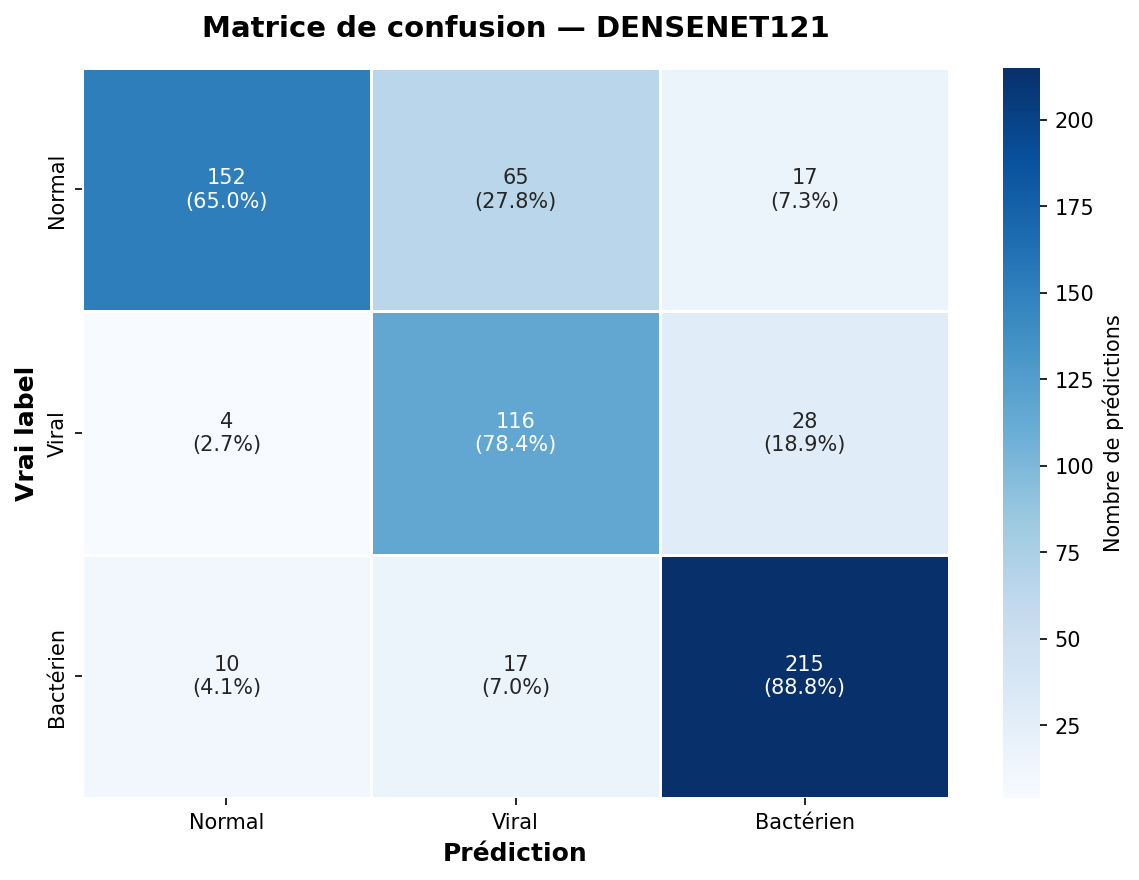
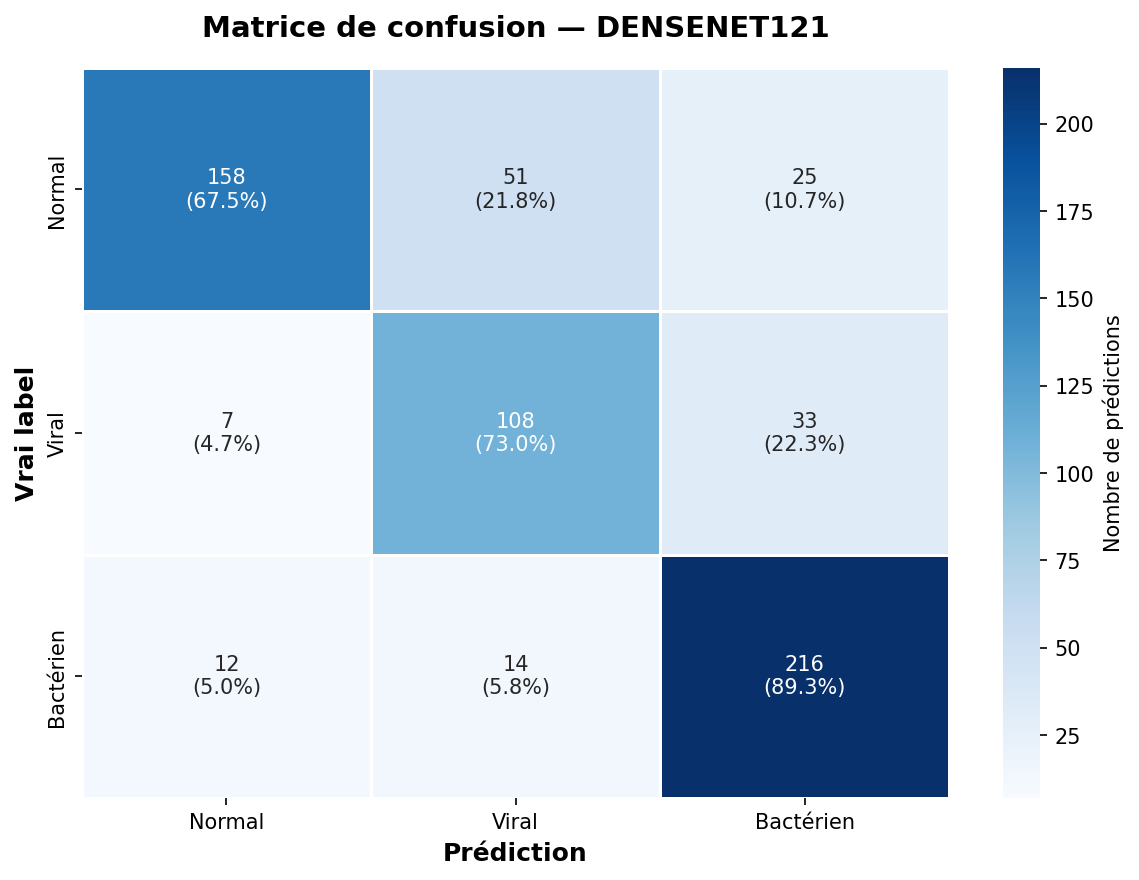
fix(main) ajout du SWA, réduction dynamique du label smoothing

diff --git a/predict.py b/predict.py
@@ -65,6 +65,11 @@ def parse_args():
         default=0.7,
         help="Seuil de confiance (défaut: 0.7)",
     )
+    parser.add_argument(
+        "--strict-pneumonia",
+        action="store_true",
+        help="Favorise le diagnostic Normal (réduit les faux positifs de Pneumonie)",
+    )
     return parser.parse_args()
 
 
@@ -97,30 +102,38 @@ def collect_images(dir_path, sample_n=None, seed=42):
     return sorted(images)
 
 
-def predict_single(model, image_tensor, device, threshold=0.7):
+def predict_single(model, image_tensor, device, threshold=0.7, strict_pneumonia=False):
     """
     Prédit la classe d'une image avec un seul modèle.
 
     Returns:
         dict avec classe, probas, confiance, fiable
     """
+    import numpy as np
+
     model.eval()
     image_tensor = image_tensor.to(device)
 
     with torch.no_grad():
         output = model(image_tensor)
-        probas = F.softmax(output, dim=1)
-        confiance, classe = torch.max(probas, dim=1)
+        probas = F.softmax(output, dim=1).squeeze().cpu().numpy()
+
+    if strict_pneumonia:
+        probas[0] *= 1.2
+        probas /= probas.sum()  # Renormalisation
+
+    classe = int(np.argmax(probas))
+    confiance = float(probas[classe])
 
     return {
-        "classe": classe.item(),
-        "probas": probas.squeeze().cpu().tolist(),
-        "confiance": confiance.item(),
-        "fiable": confiance.item() >= threshold,
+        "classe": classe,
+        "probas": probas.tolist(),
+        "confiance": confiance,
+        "fiable": confiance >= threshold,
     }
 
 
-def predict_tta(model, image_pil, tta_transforms, device, threshold=0.7):
+def predict_tta(model, image_pil, tta_transforms, device, threshold=0.7, strict_pneumonia=False):
     """
     Prédit avec Test-Time Augmentation : applique N transforms différentes
     et moyenne les probabilités pour un résultat plus robuste.
@@ -138,6 +151,11 @@ def predict_tta(model, image_pil, tta_transforms, device, threshold=0.7):
             all_probas.append(probas.squeeze().cpu().numpy())
 
     mean_probas = np.mean(all_probas, axis=0)
+
+    if strict_pneumonia:
+        mean_probas[0] *= 1.2
+        mean_probas /= mean_probas.sum()
+
     classe = int(np.argmax(mean_probas))
     confiance = float(mean_probas[classe])
 
@@ -275,10 +293,10 @@ def main():
             print(f"TTA    : {args.tta} passes")
             image_pil = Image.open(args.image).convert("RGB")
             tta_transforms = get_tta_transforms(args.tta)
-            result = predict_tta(model, image_pil, tta_transforms, device, args.threshold)
+            result = predict_tta(model, image_pil, tta_transforms, device, args.threshold, args.strict_pneumonia)
         else:
             image_tensor = load_image(args.image)
-            result = predict_single(model, image_tensor, device, args.threshold)
+            result = predict_single(model, image_tensor, device, args.threshold, args.strict_pneumonia)
 
         display_single_result(result, args.image)
 
@@ -295,10 +313,10 @@ def main():
             if args.tta > 1:
                 image_pil = Image.open(str(img_path)).convert("RGB")
                 tta_transforms = get_tta_transforms(args.tta)
-                result = predict_tta(model, image_pil, tta_transforms, device, args.threshold)
+                result = predict_tta(model, image_pil, tta_transforms, device, args.threshold, args.strict_pneumonia)
             else:
                 image_tensor = load_image(str(img_path))
-                result = predict_single(model, image_tensor, device, args.threshold)
+                result = predict_single(model, image_tensor, device, args.threshold, args.strict_pneumonia)
             results.append({"path": str(img_path), "result": result})
 
         display_batch_results(results, args.threshold)

diff --git a/main.py b/main.py
@@ -19,6 +19,7 @@ import torch
 import torch.nn as nn
 import torch.optim as optim
 from torch.optim.lr_scheduler import CosineAnnealingLR
+from torch.optim.swa_utils import AveragedModel, SWALR, update_bn
 from torch.utils.data import DataLoader, WeightedRandomSampler
 
 from src.data import Lungdataset, get_train_transforms, get_val_transforms
@@ -33,6 +34,7 @@ BATCH_SIZE = 16
 EPOCHS = 50
 PATIENCE = 15
 LABEL_SMOOTHING = 0.05
+LABEL_SMOOTHING_MIXUP = 0.01  # LS réduit quand Mixup est actif
 GRAD_ACCUM_STEPS = 2
 MODELS_DIR = "models"
 TRAIN_DIR = "data/raw/train"
@@ -151,6 +153,11 @@ def train_model(name, phase, train_loader, val_loader, class_weights, device):
 
     scheduler = CosineAnnealingLR(optimizer, T_max=EPOCHS, eta_min=1e-7)
 
+    # Configuration SWA
+    SWA_START = EPOCHS - 15 if phase == 2 else float('inf')
+    swa_model = AveragedModel(model) if phase == 2 else None
+    swa_scheduler = SWALR(optimizer, swa_lr=5e-6) if phase == 2 else None
+
     model_path = os.path.join(MODELS_DIR, f"{name}.pth")
     best_val_acc = 0.0
     best_val_loss = float("inf")
@@ -180,15 +187,23 @@ def train_model(name, phase, train_loader, val_loader, class_weights, device):
         current_lr = optimizer.param_groups[0]["lr"]
         print(f"\nEpoch {epoch + 1}/{EPOCHS} (LR: {current_lr:.2e})")
 
+        mixup_active = (phase == 2) and (epoch < EPOCHS // 2)
+        criterion.label_smoothing = LABEL_SMOOTHING_MIXUP if mixup_active else LABEL_SMOOTHING
+
         train_loss = train_one_epoch(
             model, train_loader, criterion, optimizer, device,
-            use_mixup=(phase == 2),
-            mixup_alpha=MIXUP_ALPHA if phase == 2 else 0.0,
+            use_mixup=mixup_active,
+            mixup_alpha=MIXUP_ALPHA if mixup_active else 0.0,
             grad_accum_steps=GRAD_ACCUM_STEPS,
             scheduler=None  # CosineAnnealingLR step par epoch
         )
         val_loss, val_acc = validate(model, val_loader, criterion, device)
-        scheduler.step()
+        
+        if phase == 2 and epoch >= SWA_START:
+            swa_model.update_parameters(model)
+            swa_scheduler.step()
+        else:
+            scheduler.step()
 
         print(f"  Train Loss: {train_loss:.4f} | Val Loss: {val_loss:.4f} | Val Acc: {val_acc*100:.2f}%")
 
@@ -202,6 +217,19 @@ def train_model(name, phase, train_loader, val_loader, class_weights, device):
         if early_stopper.early_stop:
             print("  ⏹ Early Stopping déclenché.")
             break
+
+    if phase == 2 and epoch >= SWA_START:
+        print("\n🔄 Mise à jour des BatchNorms pour le modèle SWA...")
+        update_bn(train_loader, swa_model, device=device)
+        swa_val_loss, swa_val_acc = validate(swa_model, val_loader, criterion, device)
+        print(f"  SWA Val Loss: {swa_val_loss:.4f} | SWA Val Acc: {swa_val_acc*100:.2f}%")
+        
+        if swa_val_acc > best_val_acc:
+            best_val_acc = swa_val_acc
+            torch.save(swa_model.module.state_dict(), model_path)
+            print(f"  🌟 SWA est le nouveau record ! Sauvegardé dans {model_path} (Acc: {best_val_acc*100:.2f}%)")
+        else:
+            print("  SWA n'a pas battu le meilleur modèle standard.")
 
     return model_path
 
@@ -226,7 +254,8 @@ def setup(seed=DEFAULT_SEED):
     val_ds = Lungdataset(root_dir=VAL_DIR, transform=get_val_transforms())
 
     class_weights = compute_class_weights(train_ds)
-    print(f"Poids de classe : {class_weights.tolist()}")
+    class_weights[0] *= 1.1 # Boost du poids de "Normal" pour réduire les faux positifs pneumonia
+    print(f"Poids de classe (ajustés): {class_weights.tolist()}")
 
     # Générateur déterministe
     g = torch.Generator()
